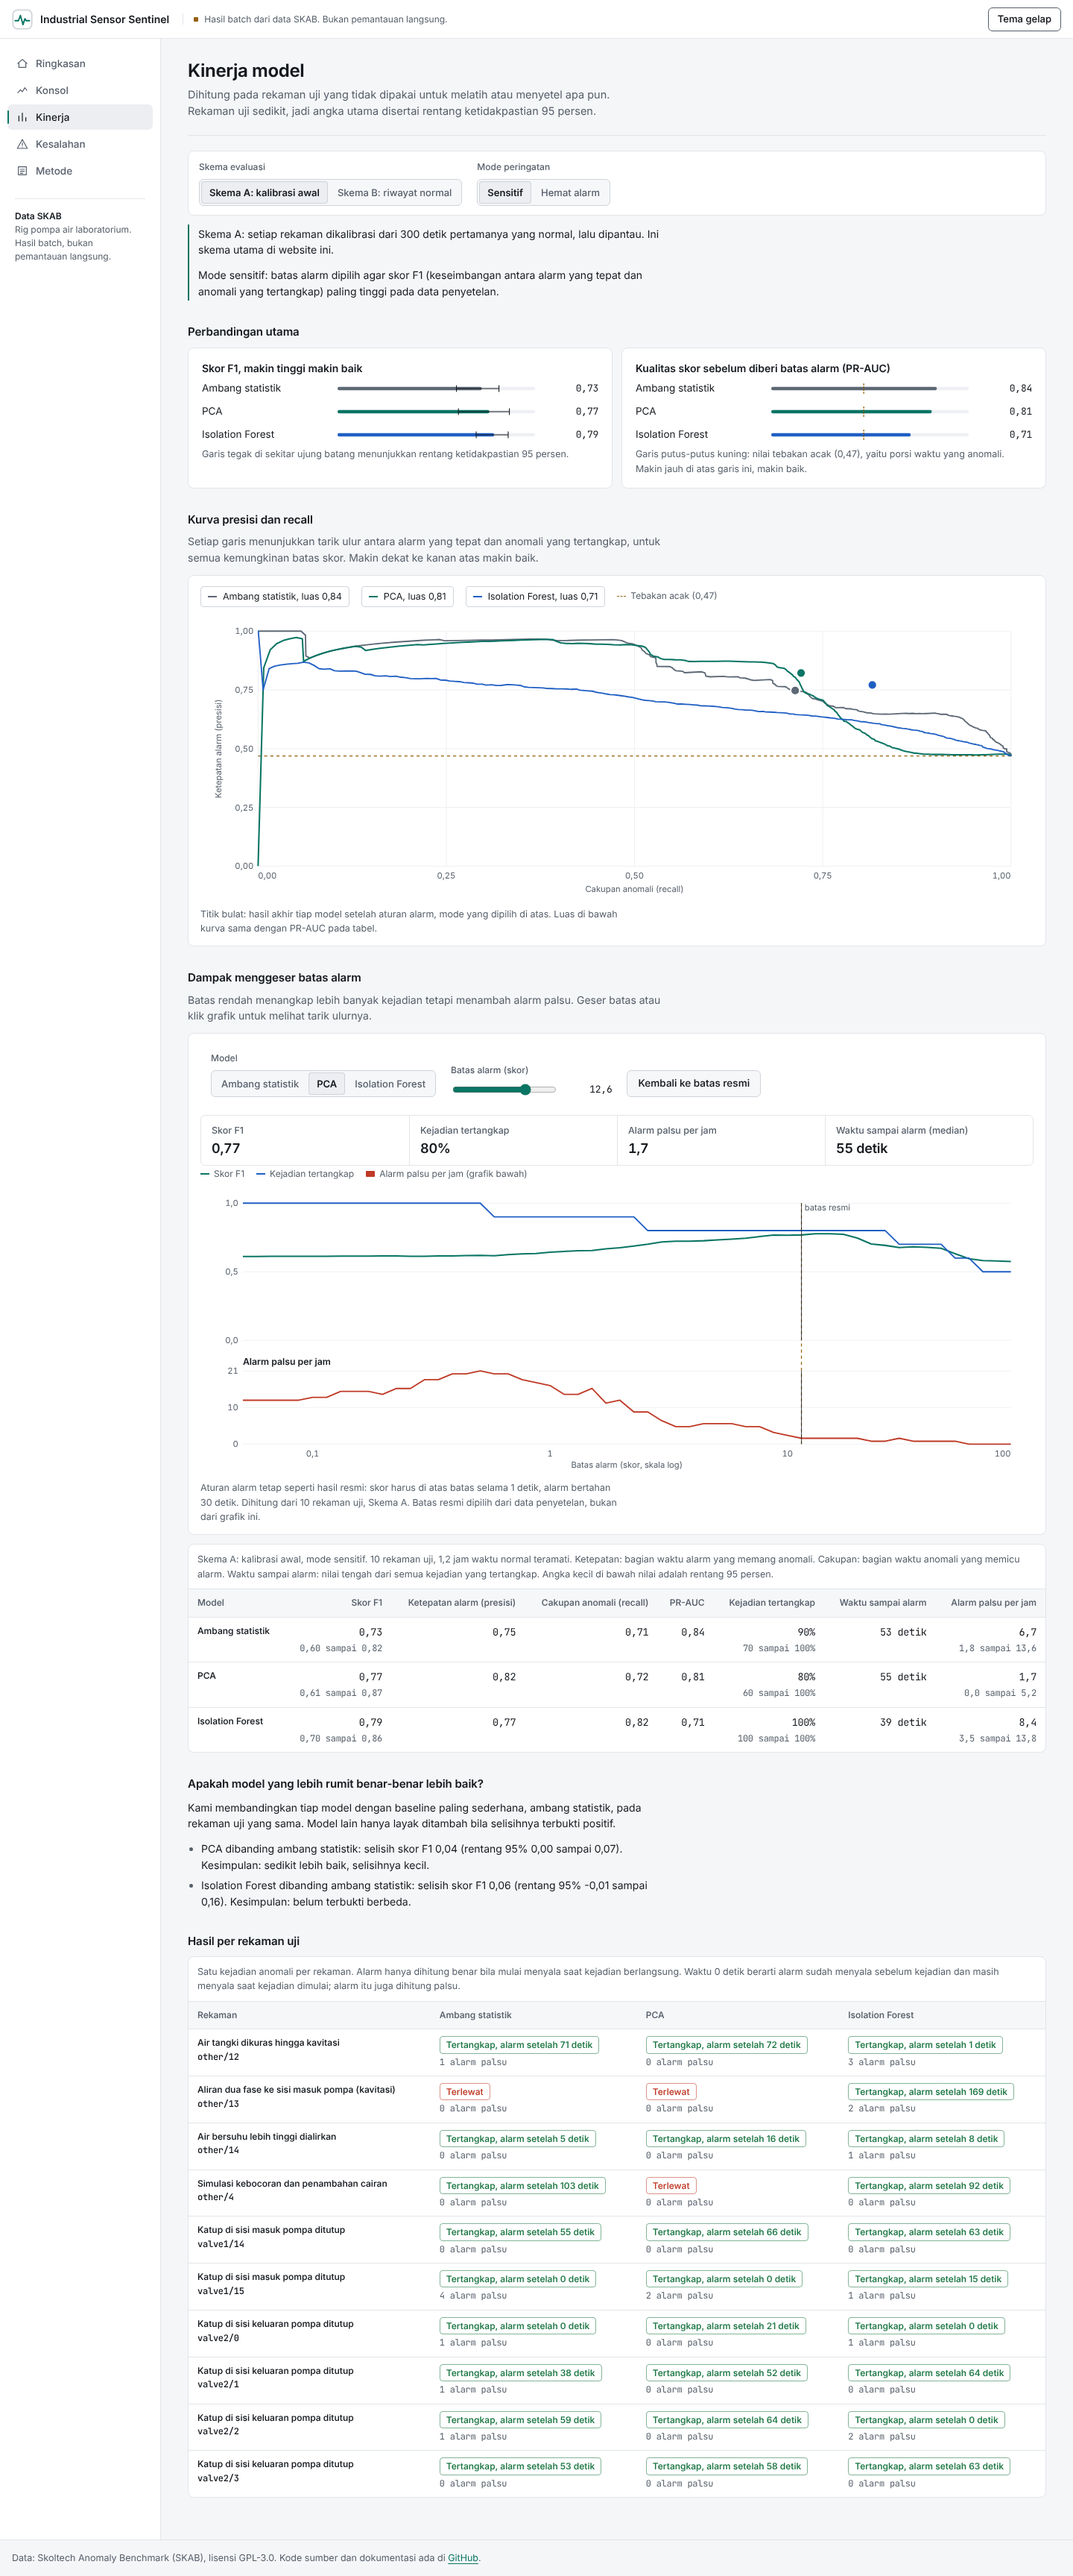
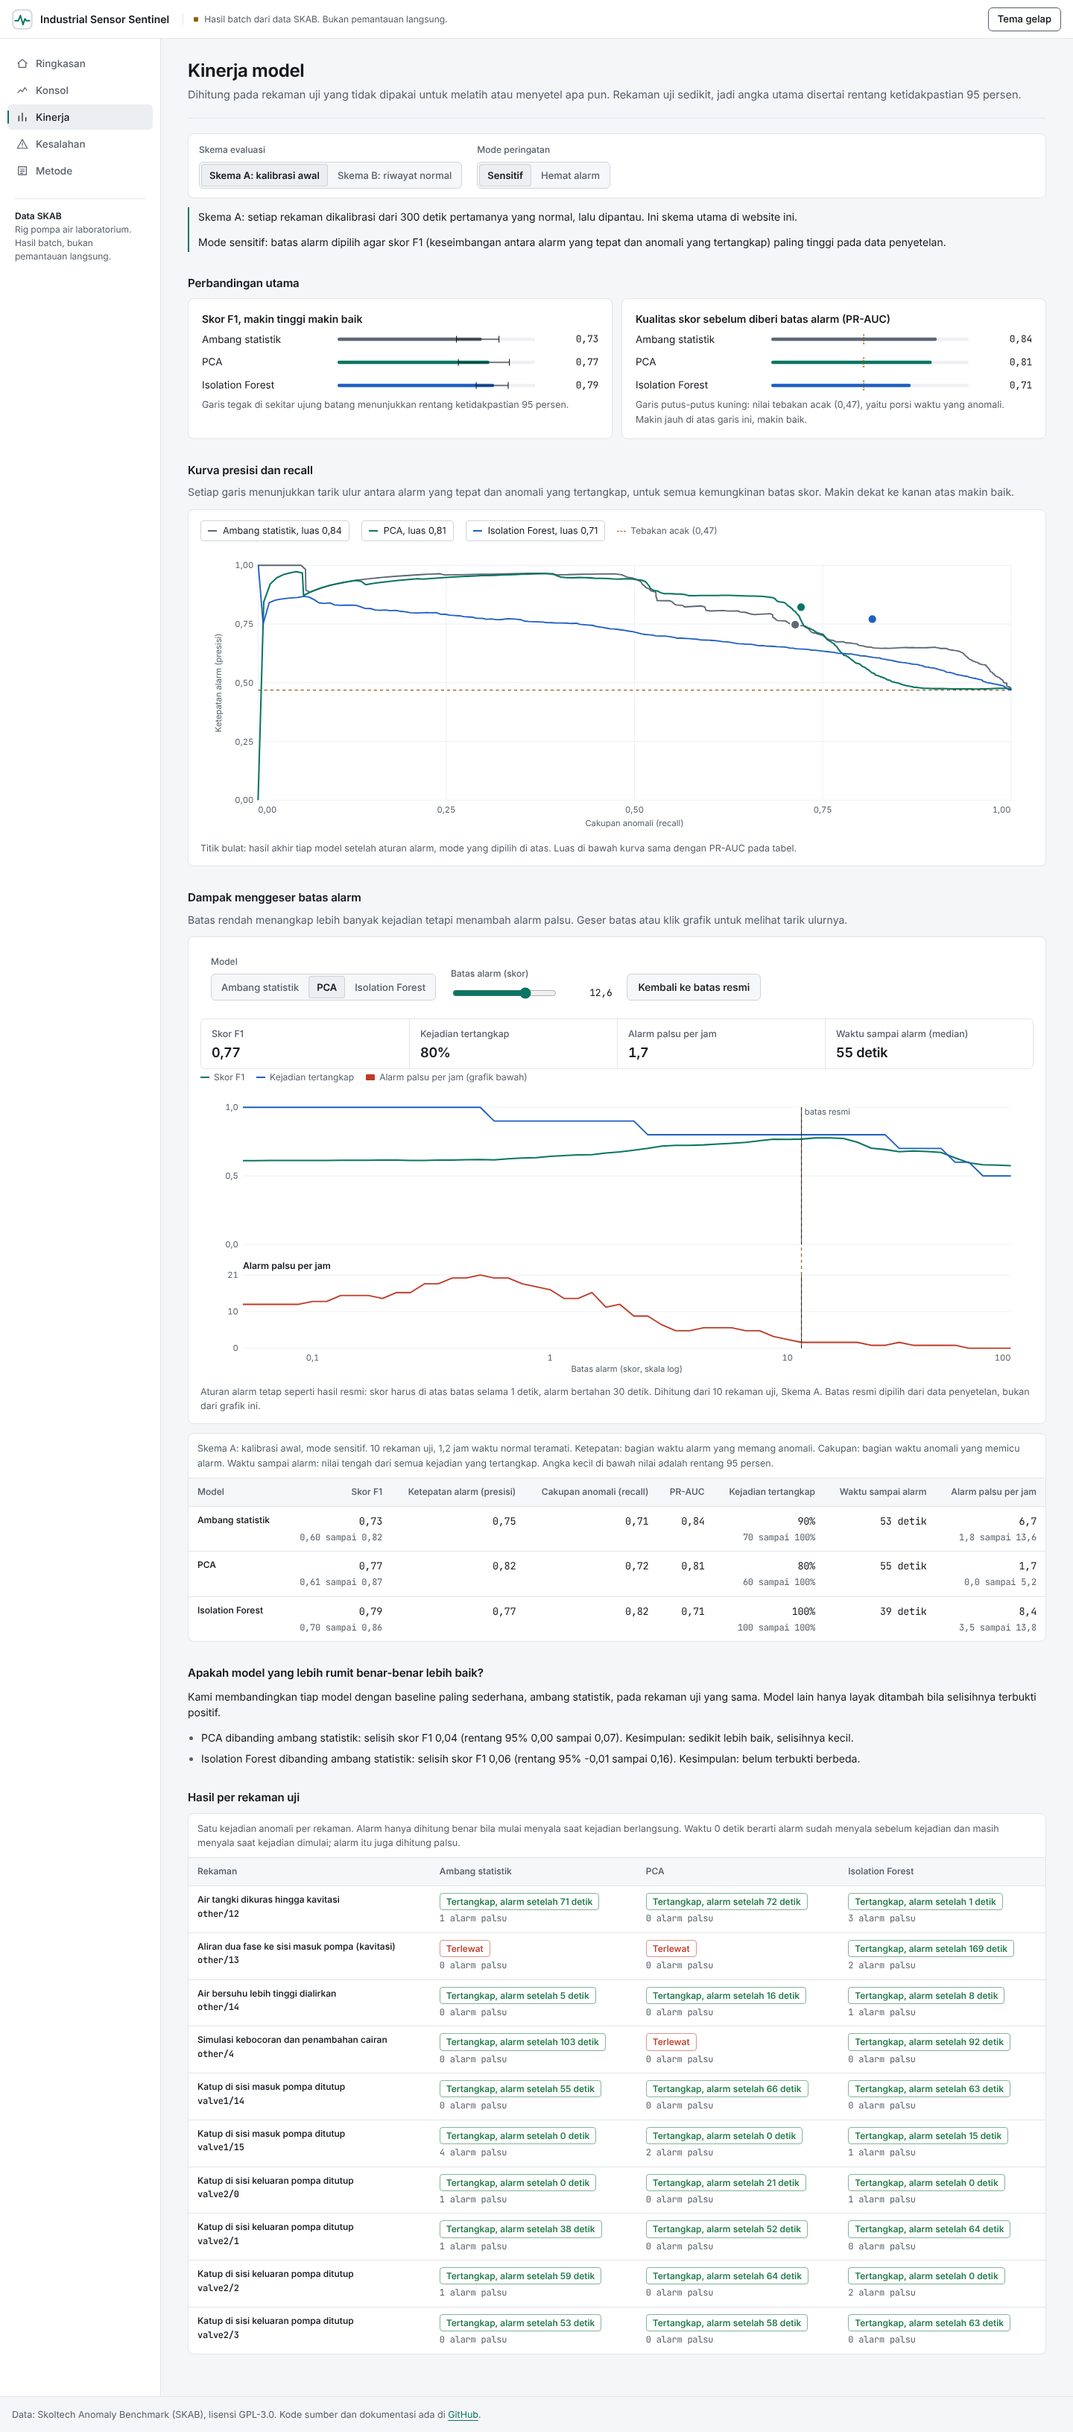
Teks mengikuti lebar halaman
Batas lebar paragraf, daftar, dan catatan dihapus agar teks memenuhi
lebar konten. Grafik perubahan sensor di halaman Kesalahan juga dibuat
selebar halaman. Lebar maksimum konten dinaikkan untuk layar besar.

Claude-Session: https://claude.ai/code/session_01HEBRiXZtmFsbADF3cdymis

diff --git a/web/public/css/style.css b/web/public/css/style.css
@@ -123,7 +123,7 @@ a { color: var(--accent); text-underline-offset: 3px; text-decoration-thickness:
 .rail-foot { margin: 20px 10px 0; padding-top: 14px; border-top: 1px solid var(--line); font-size: 12px; color: var(--muted); line-height: 1.5; }
 .rail-foot strong { color: var(--text); font-weight: 600; }
 
-main { padding: 28px clamp(16px, 3vw, 36px) 56px; min-width: 0; max-width: 1240px; width: 100%; }
+main { padding: 28px clamp(16px, 3vw, 36px) 56px; min-width: 0; max-width: 1680px; width: 100%; }
 main:focus { outline: none; }
 .foot { grid-column: 1 / -1; padding: 14px 16px; border-top: 1px solid var(--line); color: var(--muted); font-size: 12.5px; }
 .foot p { margin: 0; max-width: none; }
@@ -132,14 +132,14 @@ main:focus { outline: none; }
 h1 { font-size: 24px; line-height: 1.25; margin: 0 0 6px; letter-spacing: -0.015em; font-weight: 650; }
 h2 { font-size: 15px; line-height: 1.35; margin: 32px 0 10px; letter-spacing: -0.005em; font-weight: 620; }
 h3 { font-size: 14px; margin: 0 0 6px; font-weight: 600; }
-p { margin: 0 0 12px; max-width: 72ch; }
-.lead { color: var(--muted); max-width: 68ch; margin: 0; font-size: 14.5px; }
+p { margin: 0 0 12px; }
+.lead { color: var(--muted); margin: 0; font-size: 14.5px; }
 .page-head { padding-bottom: 20px; margin-bottom: 20px; border-bottom: 1px solid var(--line); }
 .page-head.split { display: flex; justify-content: space-between; align-items: flex-end; gap: 16px 32px; flex-wrap: wrap; }
 .page-head.split > div:first-child { flex: 1 1 420px; min-width: 0; }
 .actions { display: flex; flex-wrap: wrap; gap: 8px; }
-.section-lead { color: var(--muted); margin: -2px 0 12px; max-width: 72ch; }
-.note { font-size: 13px; color: var(--muted); margin: 0 0 16px; padding-left: 12px; border-left: 2px solid var(--truth); max-width: 90ch; }
+.section-lead { color: var(--muted); margin: -2px 0 12px; }
+.note { font-size: 13px; color: var(--muted); margin: 0 0 16px; padding-left: 12px; border-left: 2px solid var(--truth); }
 
 /* Panel */
 .panel { background: var(--panel); border: 1px solid var(--line); border-radius: 8px; }
@@ -178,13 +178,13 @@ a.panel .s { color: var(--muted); margin: 0; }
 .card-foot .chart-note { margin: 0; }
 .badge { display: inline-flex; align-items: center; gap: 6px; font-size: 12px; font-weight: 500; color: var(--muted); }
 .badge .dot { width: 6px; height: 6px; border-radius: 1px; background: var(--accent); }
-.notice { display: flex; gap: 10px; align-items: flex-start; border-left: 2px solid var(--truth); padding: 2px 0 2px 12px; margin: 0 0 16px; max-width: 90ch; color: var(--muted); font-size: 13px; }
+.notice { display: flex; gap: 10px; align-items: flex-start; border-left: 2px solid var(--truth); padding: 2px 0 2px 12px; margin: 0 0 16px; color: var(--muted); font-size: 13px; }
 .notice p { margin: 0; }
 .notice svg { flex: none; color: var(--truth); margin-top: 1px; }
 
 /* Temuan */
 ol.findings { list-style: none; margin: 0; padding: 0; counter-reset: f; }
-ol.findings li { counter-increment: f; position: relative; padding: 12px 0 12px 36px; border-top: 1px solid var(--line); max-width: 70ch; }
+ol.findings li { counter-increment: f; position: relative; padding: 12px 0 12px 36px; border-top: 1px solid var(--line); }
 ol.findings li:last-child { border-bottom: 1px solid var(--line); }
 ol.findings li::before { content: counter(f, decimal-leading-zero); position: absolute; left: 0; top: 13px; font: 600 12px/1.4 "JetBrains Mono Var", ui-monospace, monospace; color: var(--muted); }
 .finding { padding: 14px 16px; }
@@ -394,10 +394,10 @@ thead th, thead th.n { white-space: normal; min-width: 5.5em; }
 td .s { color: var(--muted); font-size: 12px; margin-top: 2px; }
 .grid + .table-wrap { margin-top: 12px; }
 
-.callout { border-left: 2px solid var(--truth); padding: 2px 0 2px 12px; margin: 0 0 14px; max-width: 80ch; }
+.callout { border-left: 2px solid var(--truth); padding: 2px 0 2px 12px; margin: 0 0 14px; }
 .callout.info { border-color: var(--accent); }
 .callout p:last-child { margin-bottom: 0; }
-ul.clean { margin: 0 0 14px; padding-left: 18px; max-width: 72ch; }
+ul.clean { margin: 0 0 14px; padding-left: 18px; }
 ul.clean li { margin-bottom: 6px; }
 ul.clean li::marker { color: var(--muted); }
 .noscript { padding: 16px; }

diff --git a/web/public/js/errors.js b/web/public/js/errors.js
@@ -85,7 +85,7 @@ function stat(l, v, sub) {
 function scatter(rows) {
   // Layar sempit memakai bidang gambar lebih kecil agar teks tetap terbaca.
   const small = window.matchMedia("(max-width: 600px)").matches;
-  const W = small ? 360 : 560, H = small ? 230 : 250, L = 40, B = 36, T = 14, R = small ? 16 : 24;
+  const W = small ? 360 : 1100, H = small ? 230 : 300, L = 40, B = 36, T = 14, R = small ? 16 : 24;
   const xs = rows.map((r) => Math.log10(Math.max(r.pergeseran_sensor_sd, 0.5)));
   const xmin = Math.min(...xs, 0), xmax = Math.max(...xs, 2.5);
   const X = (v) => L + ((v - xmin) / (xmax - xmin)) * (W - L - R);
@@ -107,6 +107,6 @@ function scatter(rows) {
     c.append(s("title", null, `${p.r.eksperimen}: ${Math.round(p.frac * 100)}% tanpa alarm`));
     svg.append(c);
   }
-  return h("div", null, h("h2", null, "Perubahan kecil lebih sulit dideteksi"), h("div", { class: "panel chart-wrap narrow" }, svg,
+  return h("div", null, h("h2", null, "Perubahan kecil lebih sulit dideteksi"), h("div", { class: "panel chart-wrap" }, svg,
     h("p", { class: "chart-note" }, "Titik hijau: kejadian tertangkap. Titik merah: kejadian terlewat sepenuhnya. Sumbu tegak: bagian waktu anomali yang tidak memicu alarm. Nama tiap rekaman muncul saat kursor diarahkan ke titik. Angka lengkapnya ada di tabel di atas.")));
 }
